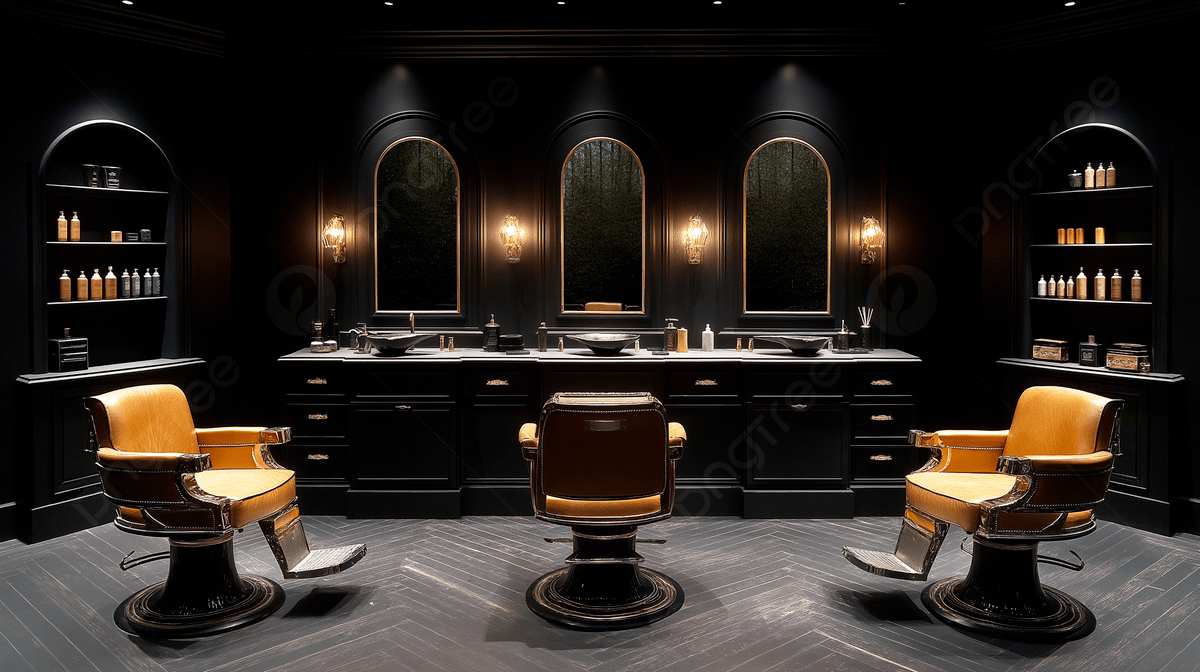
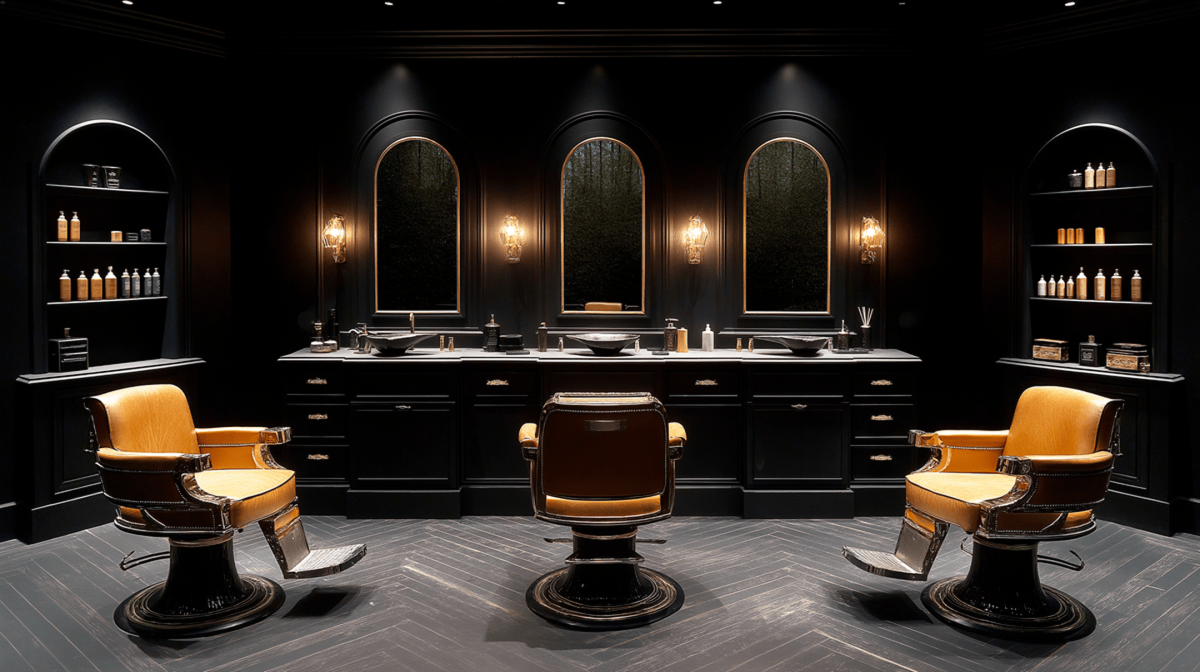
initial page css updated

Changed region(s): [[0.4933, 0.5625, 0.5242, 0.5938]]

diff --git a/Client/src/styles/initial.css b/Client/src/styles/initial.css
@@ -1,53 +1,280 @@
+* {
+    box-sizing: border-box;
+    margin: 0;
+    padding: 0;
+}
+
 .background {
+    position: relative;
+
     min-height: 100vh;
-
-    background-image: url("../images/HomeBackground.png");
-    background-size: cover;
-
-    background-size: cover;
-    background-position: center;
-    background-repeat: no-repeat;
 
     display: flex;
     justify-content: center;
     align-items: center;
+
+    overflow: hidden;
+
+    background:
+        linear-gradient(rgba(0,0,0,0.72), rgba(0,0,0,0.82)),
+        url("../images/HomeBackground.png");
+
+    background-size: cover;
+    background-position: center;
+
+    animation: bgZoom 14s ease-in-out infinite alternate;
 }
+
+/* cinematic smoke glow */
+
+.background::before {
+    content: "";
+
+    position: absolute;
+    inset: -20%;
+
+    background:
+        radial-gradient(
+            circle at 20% 30%,
+            rgba(212,175,55,0.10),
+            transparent 35%
+        ),
+        radial-gradient(
+            circle at 80% 70%,
+            rgba(212,175,55,0.08),
+            transparent 40%
+        );
+
+    filter: blur(60px);
+
+    animation: smokeMove 10s ease-in-out infinite alternate;
+}
+
+/* hero card */
 
 .hero-container {
-    max-width: 700px
+    position: relative;
+    z-index: 1;
+
+    width: 700px;
+
+    padding: 60px 50px;
+
+    text-align: center;
+
+    border-radius: 28px;
+
+    background: rgba(10,10,10,0.55);
+
+    backdrop-filter: blur(12px);
+
+    border: 1px solid rgba(212,175,55,0.2);
+
+    box-shadow:
+        0 0 30px rgba(212,175,55,0.08),
+        0 20px 60px rgba(0,0,0,0.7);
+
+    animation: fadeUp 1.2s ease;
 }
 
-.hero-container h1 {
-    font-size: 4rem;
-    font-style: italic;
-    font-weight: bold;
-    text-shadow: 2px 2px 4px rgba(0, 0, 0, 100);
-    margin-bottom: 20px;
-    color: #ffd900;
-}
+/* top intro text */
 
-.hero-container p {
-    font-size: 1.4rem;
-    font-weight: bolder;
+.intro-text {
+    color: rgba(255,255,255,0.75);
+
+    font-size: 1.1rem;
+
+    letter-spacing: 3px;
+    text-transform: uppercase;
+
     margin-bottom: 10px;
-    line-height: 1.6;
-    color: #ffd900;
+
+    opacity: 0;
+
+    animation: fadeIn 1s ease forwards;
 }
+
+/* TYPEWRITER */
+
+.typewriter {
+    width: 0;
+
+    margin: auto;
+
+    overflow: hidden;
+    white-space: nowrap;
+
+    border-right: 3px solid #d4af37;
+
+    color: #f5d76e;
+
+    font-size: 4.5rem;
+    font-weight: 800;
+
+    text-shadow:
+        0 0 10px rgba(212,175,55,0.4);
+
+    animation:
+        typing 2.8s steps(18, end) forwards,
+        blink 0.7s infinite;
+}
+
+/* subtitle */
+
+.sub-text {
+    margin-top: 24px;
+
+    color: rgba(255,255,255,0.82);
+
+    font-size: 1.2rem;
+
+    opacity: 0;
+
+    animation: fadeUp 1s ease forwards;
+    animation-delay: 2.5s;
+}
+
+/* button */
 
 .btn {
-    background-color: gold;
-    color: black;
-    border: none;
+    margin-top: 35px;
+
+    opacity: 0;
+
     padding: 14px 28px;
+
+    border: 2px solid #d4af37;
+    border-radius: 12px;
+
+    background: #d4af37;
+
+    color: black;
+
     font-size: 1rem;
-    font-weight: bold;
-    border-radius: 8px;
+    font-weight: 700;
+
     cursor: pointer;
 
-    transition: 0.3s ease;
+    position: relative;
+    overflow: hidden;
+
+    transition:
+        transform 0.25s ease,
+        box-shadow 0.25s ease,
+        background 0.25s ease,
+        color 0.25s ease;
+
+    animation: fadeUp 1s ease forwards;
+    animation-delay: 3.2s;
+}
+
+/* shine effect */
+
+.btn::before {
+    content: "";
+
+    position: absolute;
+
+    top: 0;
+    left: -120%;
+
+    width: 100%;
+    height: 100%;
+
+    background: linear-gradient(
+        120deg,
+        transparent,
+        rgba(255,255,255,0.55),
+        transparent
+    );
+
+    transition: 0.7s;
+}
+
+.btn:hover::before {
+    left: 120%;
 }
 
 .btn:hover {
-    transform: scale(1.05);
-    opacity: 0.9;
+    transform: translateY(-4px);
+
+    background: transparent;
+
+    color: #d4af37;
+
+    box-shadow:
+        0 10px 25px rgba(212,175,55,0.35);
+}
+
+/* animations */
+
+@keyframes typing {
+    from {
+        width: 0;
+    }
+
+    to {
+        width: 100%;
+    }
+}
+
+@keyframes blink {
+    50% {
+        border-color: transparent;
+    }
+}
+
+@keyframes fadeUp {
+    from {
+        opacity: 0;
+        transform: translateY(30px);
+    }
+
+    to {
+        opacity: 1;
+        transform: translateY(0);
+    }
+}
+
+@keyframes fadeIn {
+    to {
+        opacity: 1;
+    }
+}
+
+@keyframes bgZoom {
+    from {
+        background-size: 100%;
+    }
+
+    to {
+        background-size: 108%;
+    }
+}
+
+@keyframes smokeMove {
+    from {
+        transform: translateX(-30px) translateY(-20px);
+    }
+
+    to {
+        transform: translateX(30px) translateY(20px);
+    }
+}
+
+/* mobile */
+
+@media (max-width: 768px) {
+    .hero-container {
+        width: 92%;
+        padding: 40px 25px;
+    }
+
+    .typewriter {
+        font-size: 2.5rem;
+    }
+
+    .sub-text {
+        font-size: 1rem;
+    }
 }

diff --git a/Client/src/components/pages/InitialPage.jsx b/Client/src/components/pages/InitialPage.jsx
@@ -7,9 +7,17 @@ function InitialPage() {
     return (
         <div className="background">
             <div className="hero-container">
-                <h1>Welcome to DeVito Styles</h1>
+                <p className="intro-text">
+                    Welcome to
+                </p>
 
-                <p>Your one-stop shop for all your fashion needs!</p>
+                <h1 className="typewriter">
+                    DeVito Styles
+                </h1>
+
+                <p className="sub-text">
+                    Luxury barber experience crafted for your style.
+                </p>
 
                 <button className="btn" onClick={() => navigate("/services")}>Book Appointment</button>
             </div>